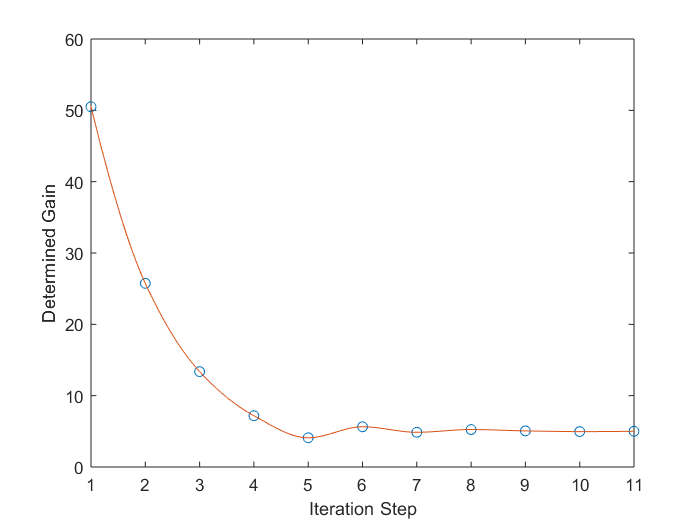
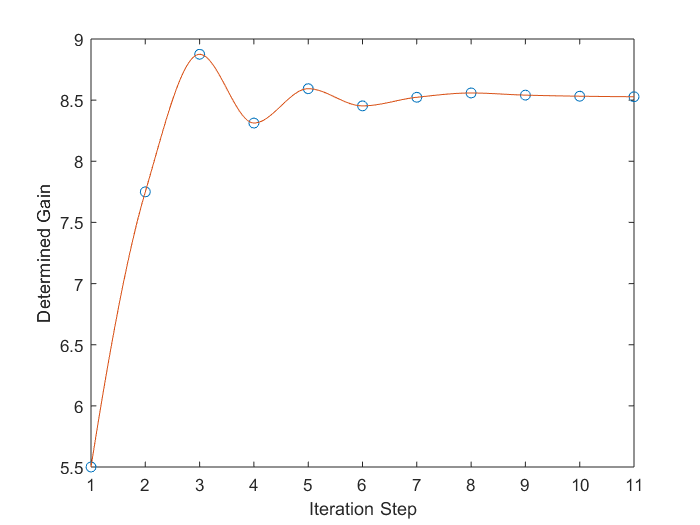
readme

diff --git a/Comparison_plot.m b/Comparison_plot.m
@@ -1,0 +1,78 @@
+clear all;
+close all
+
+% Load audio signal
+[x,fs] = audioread('maleVoice.wav');
+n = length(x);
+Omega = pi*[-1 : 2/n : 1-1/n];
+f = Omega*fs/(2*pi);
+oldrandnoise = randn(n, 1);
+Po = sqrt(sum(oldrandnoise.^2));
+randnoise = [];
+for i = 1:length(oldrandnoise)
+    randnoise(i) = sin(1/5000) * oldrandnoise(i);
+end
+randnoise = randnoise';
+Pn = sqrt(sum(randnoise.^2));
+randnoise = (Po/Pn) .* randnoise;
+%randnoise = oldrandnoise;
+
+figure;
+plot(xcorr(randnoise));
+return;
+
+
+lombard_enhanced_nf = Lombard(x, fs, 0, 1, 0.95, 8.8);
+lombard_enhanced_f = Lombard(x, fs, 0, 1, 0.95, 1.5);
+
+trans = transient_process(x, fs, 505);
+transient_enhanced = transient_amplify(x, trans, 10);
+
+filter = Transient_static(transient_enhanced, x);
+X = fft(x);
+static_enhanced = ifft(X.*filter);
+
+siib_original = [];
+siib_opt = [];
+siib_lombard = [];
+siib_transient = [];
+siib_static = [];
+
+snr_original = [];
+snr_opt = [];
+snr_lombard = [];
+snr_transient = [];
+snr_static = [];
+
+noiseamp = logspace(log10(0.01), log10(0.1), 20);
+for i = 1:length(noiseamp)
+    noise = noiseamp(i) * randnoise;
+    
+    opt_enhanced = sii_opt(x, noise, fs);
+    
+    snr_original(i) = 10*log10((sqrt(sum(x.^2))) / (sqrt(sum(noise.^2))));
+    snr_opt(i) = 10*log10((sqrt(sum(opt_enhanced.^2))) / (sqrt(sum(noise.^2))));
+    snr_lombard(i) = 10*log10((sqrt(sum(lombard_enhanced_nf.^2))) / (sqrt(sum(noise.^2))));
+    snr_transient(i) = 10*log10((sqrt(sum(transient_enhanced.^2))) / (sqrt(sum(noise.^2))));
+    snr_static(i) = 10*log10((sqrt(sum(static_enhanced.^2))) / (sqrt(sum(noise.^2))));
+    
+    siib_original(i) = SIIB_Gauss(x, x+noise, fs);
+    siib_opt(i) = SIIB_Gauss(opt_enhanced, opt_enhanced+noise, fs);
+    siib_lombard(i) = SIIB_Gauss(lombard_enhanced_nf, lombard_enhanced_nf+noise, fs);
+    siib_transient(i) = SIIB_Gauss(transient_enhanced, transient_enhanced+noise, fs);
+    siib_static(i) = SIIB_Gauss(static_enhanced, static_enhanced+noise, fs);
+end
+
+figure;
+plot(snr_original, siib_original);
+hold on;
+plot(snr_opt, siib_opt);
+plot(snr_lombard, siib_lombard);
+plot(snr_transient, siib_transient);
+plot(snr_static, siib_static);
+xlabel('SNR [dB]');
+ylabel('SIIB^{Gauss} [bits/s]');
+legend('Original', 'Optimized for measure', 'Lombard algorithm', 'Time-varying band-pass filters', 'Static filter');
+
+
+

diff --git a/Results.m b/Results.m
@@ -1,0 +1,72 @@
+clear all;
+close all
+
+% Load audio signal
+[x,fs] = audioread('maleVoice.wav');
+n = length(x);
+Omega = pi*[-1 : 2/n : 1-1/n];
+f = Omega*fs/(2*pi);
+oldrandnoise = randn(n, 1);
+Po = sqrt(sum(oldrandnoise.^2));
+
+[y, fs2] = audioread('clean_speech.wav');
+y = resample(y, fs2, fs);
+y = y(10000:length(y));
+y = y(1:n);
+ssn = oldrandnoise .* y;
+Pn = sqrt(sum(ssn.^2));
+ssn = (Po/Pn) * ssn;
+
+
+randnoise = [];
+for i = 1:length(oldrandnoise)
+    randnoise(i) = sin(1/5000) * oldrandnoise(i);
+end
+randnoise = randnoise';
+Pn = sqrt(sum(randnoise.^2));
+randnoise = (Po/Pn) .* randnoise;
+randnoise = y;
+Py = sqrt(sum(randnoise.^2));
+randnoise = (Po/Py) * randnoise;
+
+trans = transient_process(x, fs, 505);
+transient_enhanced = transient_amplify(x, trans, 10);
+filter = Transient_static(transient_enhanced, x);
+
+siib_original = [];
+siib_enhanced = [];
+snr = [];
+G = [];
+noiseamp = logspace(log10(0.01), log10(0.15), 20);
+for i = 1:length(noiseamp)
+    noise = noiseamp(i) * randnoise;
+
+    enhanced = Controller(x, filter, noise, fs);
+    G(i) = SIIB_Gain(enhanced, noise, fs, 150);
+    enhanced = G(i).*enhanced;
+    
+    snr(i) = 10*log10((sqrt(sum(x.^2))) / (sqrt(sum(noise.^2))));
+    
+    siib_original(i) = SIIB_Gauss(x, x+noise, fs);
+    siib_enhanced(i) = SIIB_Gauss(enhanced, enhanced+noise, fs);
+end
+
+figure;
+plot(snr, siib_original);
+hold on;
+plot(snr, siib_enhanced);
+
+yyaxis right;
+ylim([0 15]);
+plot(snr, G);
+ylabel('Gain');
+yyaxis left;
+
+yl = ylim;
+line([-2.55 -2.55], [yl(1) yl(2)], 'Color', 'green', 'LineStyle', '--');
+line([-1.84 -1.84], [yl(1) yl(2)], 'Color', 'green', 'LineStyle', '--');
+line([2.32 2.32], [yl(1) yl(2)], 'Color', 'green', 'LineStyle', '--');
+xlabel('SNR [dB]');
+ylabel('SIIB^{Gauss} [bits/s]');
+legend('Original', 'Enhanced');
+

diff --git a/FrequencyCompensation/optSII/sii_opt.m b/FrequencyCompensation/optSII/sii_opt.m
@@ -28,12 +28,7 @@ function [xh SII_old SII_new] = sii_opt(x, n, fs)
 x       = x(:);
 n       = n(:);
 
-% ERB gammatone filterbank
-mn = 100;   % minimum center frequency
-mx = 6500;  % maximum center frequency
-J = round(21.4*log10(1+0.00437*mx)-21.4*log10(1+0.00437*mn)); % number of filters
-[G, sii_bl] = gammatone(fs, 400, J, mn, mx);
-%sii_bl  = [100 200 300 400 510 630 770 920 1080 1270 1480 1720 2000 2320 2700 3150 3700 4400 5300 6400 7700; 200 300 400 510 630 770 920 1080 1270 1480 1720 2000 2320 2700 3150 3700 4400 5300 6400 7700 9500];
+sii_bl  = [100 200 300 400 510 630 770 920 1080 1270 1480 1720 2000 2320 2700 3150 3700 4400 5300 6400 7700; 200 300 400 510 630 770 920 1080 1270 1480 1720 2000 2320 2700 3150 3700 4400 5300 6400 7700 9500];
 sii_cf  = exp(mean(log(sii_bl)));
 sii_bi  = [0.0103 0.0261 0.0419 0.0577 0.0577 0.0577 0.0577 0.0577 0.0577 0.0577 0.0577 0.0577 0.0577 0.0577 0.0577 0.0577 0.0577 0.0460 0.0343 0.0226 0.0110].';
 sii_bi = 0.75 * ones(length(sii_bi), 1);
@@ -47,16 +42,10 @@ w       = max(w, 0);
 X    	= gt_analysis(x, H, N);
 E       = gt_analysis(n, H, N);
 
-size(X)
-size(E)
-
 VAD     = 10*log10(mean(X.^2))>(max(10*log10(mean(X.^2)))-60);
 
 sig_x   = sqrt(mean(X(:, VAD).^2, 2));
 sig_e   = sqrt(mean(E(:, VAD).^2, 2));
-
-size(sig_x)
-size(sig_e)
 
 alpha   = repmat(getOptimalGain(sig_x, sig_e, w), [1 size(X, 2)]);
 

diff --git a/Measures/SIIB_Gain.m b/Measures/SIIB_Gain.m
@@ -1,9 +1,9 @@
 function [g convergence error] = SIIB_Gain(x, n, fs_signal, bits)
 % Find the necessary gain to achieve a SIIB_Gauss of bits
-% 1 <= G <= 100
+% 1 <= G <= 10
 
 a = 1;
-b = 100;
+b = 10;
 
 converge = [];
 err = [];
@@ -12,11 +12,21 @@ err = [];
 a_v = difference(a, x, n, fs_signal, bits);
 b_v = difference(b, x, n, fs_signal, bits);
 if ((a_v * b_v) >= 0)
-    error('optimal gain not contained in interval');
+    if (a_v < 0)
+        g = 1;
+        convergence = [];
+        error = [];
+        return;
+    else
+        g = 10;
+        convergence = [];
+        error = [];
+        return;
+    end
 end
 
 % Tolerance in bits
-e = 0.5;
+e = 5;
 
 i = 1;
 while(1)
@@ -27,7 +37,14 @@ while(1)
     err(i) = abs(c_v);
     
     if (abs(c_v) <= e)
-        break
+        if (c_v <= 0)
+            break;
+        end
+    elseif (c > 9.9)
+        c = 10;
+        break;
+    elseif (c < 1.1)
+        c = 1;
     end
     
     if (1 ~= 0)

diff --git a/Transient/Static_filter_test.m b/Transient/Static_filter_test.m
@@ -6,16 +6,21 @@ close all
 n = length(x);
 Omega = pi*[-1 : 2/n : 1-1/n];
 f = Omega*fs/(2*pi);
-randnoise = randn(n, 1);
+randnoise = 0.02*randn(n, 1);
 
-snr_need = 3;
-px = sqrt(sum(x.^2));
-pn = px/10^(snr_need/10);
-randnoise = pn/sqrt(sum(randnoise.^2))*randnoise;
-snr = 10*log10(px/ pn);
+% snr_need = 3;
+% px = sqrt(sum(x.^2));
+% pn = px/10^(snr_need/10);
+% randnoise = pn/sqrt(sum(randnoise.^2))*randnoise;
+% snr = 10*log10(px/ pn);
 
 trans = transient_process(x, fs, 505);
 enhanced = transient_amplify(x, trans, 10);
+
+siib_old = SIIB_Gauss(x, x+randnoise, fs);
+siib_new = SIIB_Gauss(enhanced, enhanced+randnoise, fs);
+
+return;
 
 filter = Transient_static(enhanced, x);
 

diff --git a/Transient/Transient_test.m b/Transient/Transient_test.m
@@ -7,12 +7,21 @@ n = length(x);
 Omega = pi*[-1 : 2/n : 1-1/n];
 f = Omega*fs/(2*pi);
 noise = 0.02*randn(n, 1);
+px = sqrt(sum(x.^2));
+Pn = sqrt(sum(noise.^2));
+Pneed = px/(10^(-4.7/10));
+noise = (Pneed/Pn) .* noise;
 
 trans = transient_process(x, fs, 505);
 enhanced = transient_amplify(x, trans, 10);
 
+filter = Transient_static(enhanced, x);
+X = fft(x);
+static_enhanced = ifft(X.*filter);
+
 siib_old = SIIB_Gauss(x, x+noise, fs);
-siib_new = SIIB_Gauss(enhanced, enhanced+noise, fs);
+siib_trans = SIIB_Gauss(enhanced, enhanced+noise, fs);
+siib_static = SIIB_Gauss(static_enhanced, static_enhanced+noise, fs);
 
 Ps = sqrt(sum(enhanced.^2));
 Pn = sqrt(sum(noise.^2));

diff --git a/Controller.m b/Controller.m
@@ -1,0 +1,22 @@
+function enhanced = Controller(x, filter, n, fs)
+
+% Determine SNR
+Ps = sqrt(sum(x.^2));
+Pn = sqrt(sum(n.^2));
+snr = 10*log10(Ps/Pn);
+
+% Use optimal enhancement algorithm based on analysis
+if (snr < -2.55)
+    % Use SIIB optimized
+    enhanced = sii_opt(x, n, fs);
+elseif (snr < -1.84)
+    % Use Lombard algorithm
+    enhanced = Lombard(x, fs, 0, 1, 0.95, 8.8);
+elseif (snr < 2.32)
+    % Use SIIB optimized
+    enhanced = sii_opt(x, n, fs);
+else
+    % Use Static filter
+    X = fft(x);
+    enhanced = ifft(X.*filter);
+end

diff --git a/main.m b/main.m
@@ -3,13 +3,10 @@ close all
 
 % Load audio signal
 [x,fs] = audioread('maleVoice.wav');
-noise = 0.08*randn(3*length(x), 1);
+noise = 0.03*randn(length(x), 1);
 n = length(x);
 
-X = fftshift(fft(x));
-
-
-[g converge error] = SIIB_Gain(x, noise, fs, 120);
+[g converge error] = SIIB_Gain(x, noise, fs, 150);
 
 figure;
 plot(converge, 'o');
@@ -19,7 +16,7 @@ ylabel('Determined Gain');
 figure;
 plot(error, 'o');
 xlabel('Iteration Step');
-ylabel('Absolute Error');
+ylabel('Absolute Error [bits/s]');
 
 return;
 

diff --git a/README.md b/README.md
@@ -1,10 +1,9 @@
 # Intelligibility Enhancement
 Three different methods for intelligibility enhancement are considered and implemented in matlab.
-The results are analyzed by the short time objective intelligibility measure (STOI) and speech
-intelligibility in bits (SIIB). The following intelligibility enhancing algorithms are considered
+The results are analyzed using speech intelligibility in bits (SIIB). The following intelligibility enhancing algorithms are considered
 
-* Frequency compensation by algebra?cally optimizing for SIIB_Gauss
-* Lombard effect
+* Frequency compensation by algebraical optimization for SIIB_Gauss
+* Lombard algorithm
 * Transient amplification
 
 All files need to be added to the path 
